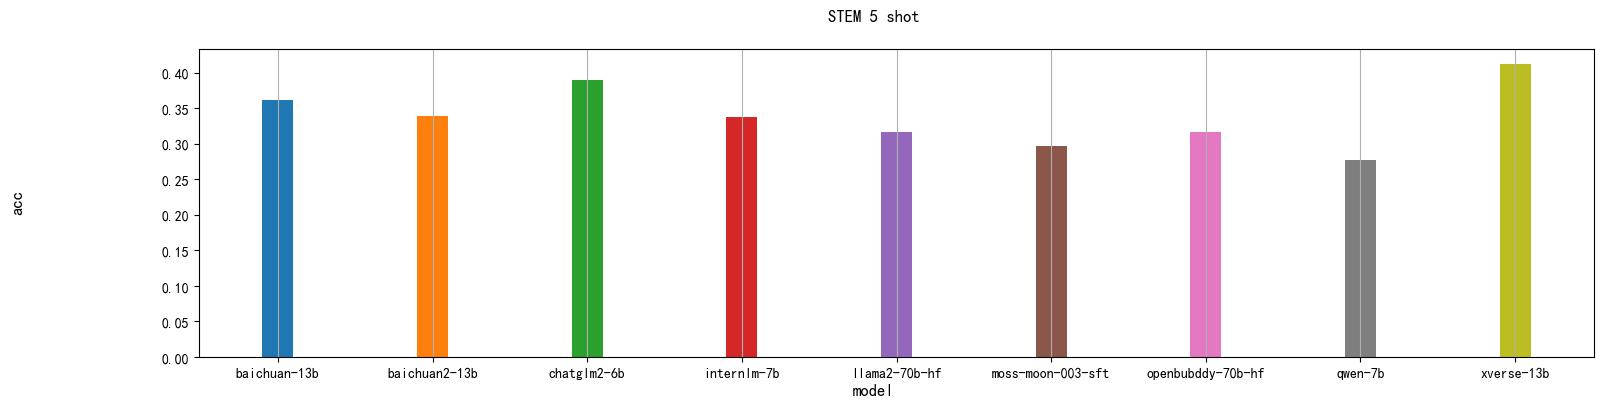
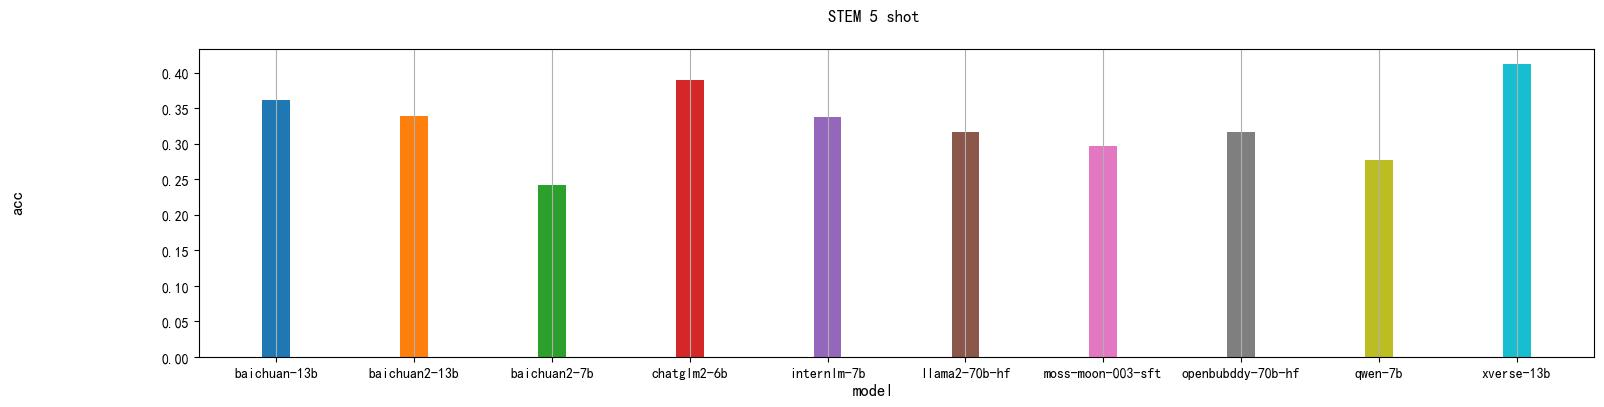
baichuan2 7b

Changed region(s): [[0.1247, 0.1769, 0.8728, 0.9435], [0.904, 0.1474, 0.9663, 0.9435], [0.1559, 0.2359, 0.187, 0.8845]]

diff --git a/outputs/model_result/draw_ceval.py b/outputs/model_result/draw_ceval.py
@@ -35,10 +35,10 @@ plt.rcParams["font.sans-serif"] = ['SimHei']
 plt.rcParams["axes.unicode_minus"] = False
 
 colors = [
-    'r','g','b','black','yellow','grey', 'orange','silver','purple','brown'
+    'r','g','b','black','yellow','grey', 'orange','silver','purple','brown','cameo','bisque'
 ]
 styles = [
-    'dashed','solid','dotted','dashdot','dashdot','dashdot','dashdot','dashdot','dashdot',
+    'dashed','solid','dotted','dashdot','dashdot','solid','solid','dashdot','solid','solid','solid',
 ]
 idx = -1
 for k,v in data_map.items():

diff --git a/outputs/model_result/draw_lines.py b/outputs/model_result/draw_lines.py
@@ -1,0 +1,14 @@
+# -*- coding: utf-8 -*-
+# @Author  : ssbuild
+# @Time    : 2023/9/7 11:35
+
+import matplotlib.pyplot as plt
+
+x = [[1, 3], [2, 5]]
+y = [[4, 7], [6, 3]]
+
+for i in range(len(x)):
+    plt.plot(x[i], y[i], color='r')
+    # plt.scatter(x[i], y[i], color='b')
+
+plt.show()
